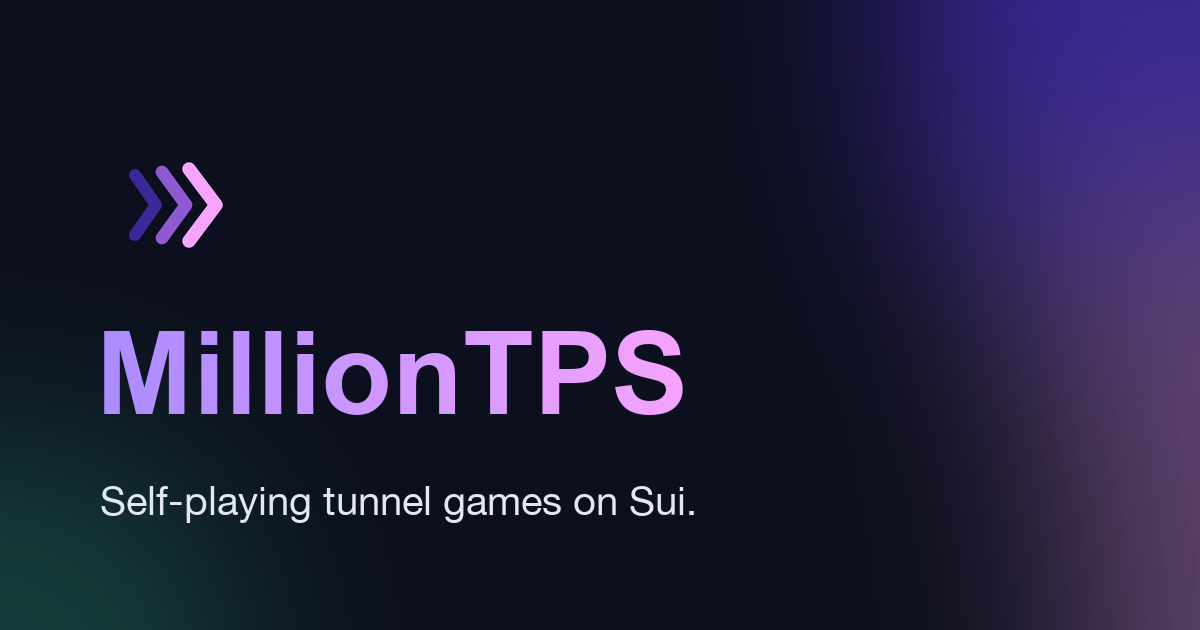
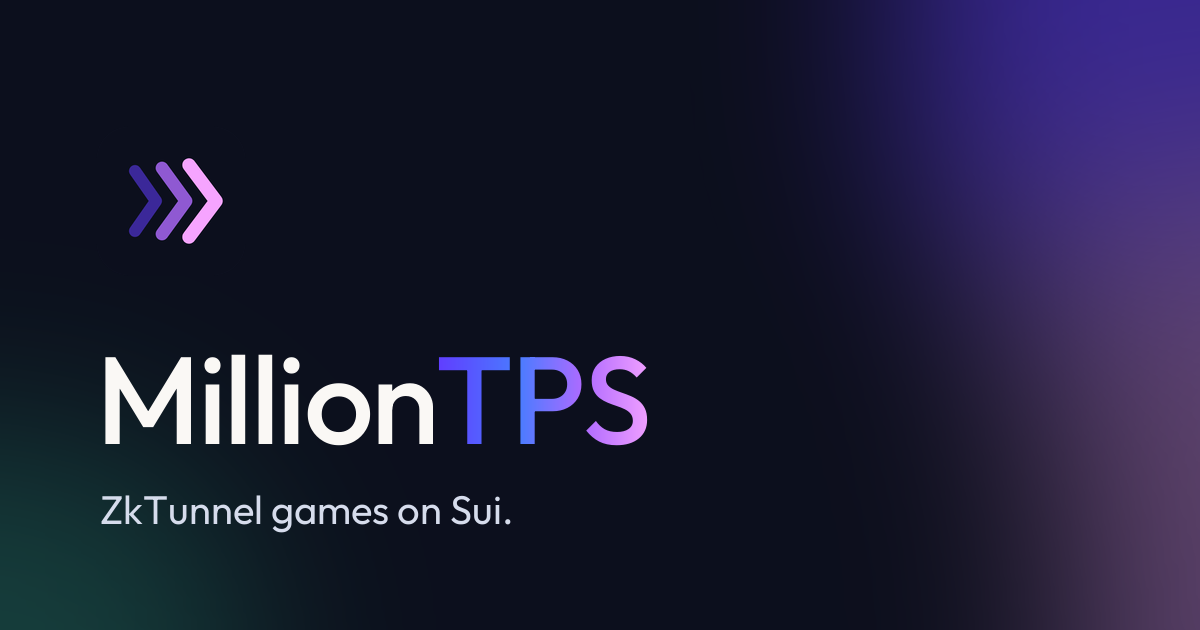
chore: rebrand tunnel terminology to ZkTunnel in SEO meta tags and OG card

Changed region(s): [[0.0617, 0.5127, 0.5858, 0.7238], [0.0617, 0.754, 0.5858, 0.8444], [0.0925, 0.2413, 0.185, 0.3921]]

diff --git a/frontend/index.html b/frontend/index.html
@@ -1,110 +1,82 @@
 <!doctype html>
 <html lang="en">
-  <head>
-    <meta charset="UTF-8" />
-    <meta name="viewport" content="width=device-width, initial-scale=1.0" />
-    <title>MillionTPS — self-playing tunnel games on Sui</title>
 
-    <!-- Primary SEO -->
-    <meta
-      name="description"
-      content="Connect a Sui wallet and play self-playing tunnel games off-chain — thousands of dual-signed, mutually-verified moves per channel, scaling to millions of effective TPS."
-    />
-    <meta
-      name="keywords"
-      content="Sui, state channels, tunnel, off-chain, effective TPS, zkLogin, Walrus, blackjack, quantum poker, Move, web3 games, blockchain gaming"
-    />
-    <meta name="application-name" content="MillionTPS" />
-    <meta name="theme-color" content="#0C0F1D" />
-    <meta name="color-scheme" content="dark light" />
-    <meta name="robots" content="index, follow" />
-    <meta name="apple-mobile-web-app-title" content="MillionTPS" />
-    <meta name="apple-mobile-web-app-capable" content="yes" />
-    <meta name="mobile-web-app-capable" content="yes" />
+<head>
+  <meta charset="UTF-8" />
+  <meta name="viewport" content="width=device-width, initial-scale=1.0" />
+  <title>MillionTPS — ZkTunnel games on Sui</title>
 
-    <!-- Open Graph (Facebook, LinkedIn, Discord, Slack, iMessage, …) -->
-    <meta property="og:type" content="website" />
-    <meta property="og:site_name" content="MillionTPS" />
-    <meta
-      property="og:title"
-      content="MillionTPS — self-playing tunnel games on Sui"
-    />
-    <meta
-      property="og:description"
-      content="A wallet-gated arena of self-playing tunnel games on Sui. Thousands of off-chain channels run at once, summing to millions of genuinely two-party effective TPS."
-    />
-    <meta property="og:image" content="/og-card.png" />
-    <meta property="og:image:type" content="image/png" />
-    <meta property="og:image:width" content="1200" />
-    <meta property="og:image:height" content="630" />
-    <meta
-      property="og:image:alt"
-      content="MillionTPS — self-playing tunnel games on Sui, anchored by off-chain state channels."
-    />
-    <meta property="og:locale" content="en_US" />
+  <!-- Primary SEO -->
+  <meta name="description"
+    content="Connect a Sui wallet and play ZkTunnel games, scaling to millions of effective TPS." />
+  <meta name="keywords"
+    content="Sui, state channels, tunnel, off-chain, effective TPS, zkLogin, Walrus, blackjack, quantum poker, Move, web3 games, blockchain gaming" />
+  <meta name="application-name" content="MillionTPS" />
+  <meta name="theme-color" content="#0C0F1D" />
+  <meta name="color-scheme" content="dark light" />
+  <meta name="robots" content="index, follow" />
+  <meta name="apple-mobile-web-app-title" content="MillionTPS" />
+  <meta name="apple-mobile-web-app-capable" content="yes" />
+  <meta name="mobile-web-app-capable" content="yes" />
 
-    <!-- Twitter / X -->
-    <meta name="twitter:card" content="summary_large_image" />
-    <meta
-      name="twitter:title"
-      content="MillionTPS — self-playing tunnel games on Sui"
-    />
-    <meta
-      name="twitter:description"
-      content="A wallet-gated arena of self-playing tunnel games on Sui, summing to millions of genuinely two-party effective TPS."
-    />
-    <meta name="twitter:image" content="/og-card.png" />
-    <meta
-      name="twitter:image:alt"
-      content="MillionTPS — self-playing tunnel games on Sui."
-    />
+  <!-- Open Graph (Facebook, LinkedIn, Discord, Slack, iMessage, …) -->
+  <meta property="og:type" content="website" />
+  <meta property="og:site_name" content="MillionTPS" />
+  <meta property="og:title" content="MillionTPS — ZkTunnel games on Sui" />
+  <meta property="og:description"
+    content="A wallet-gated arena of ZkTunnel games on Sui. Thousands of off-chain channels run at once, summing to millions of genuinely two-party effective TPS." />
+  <meta property="og:image" content="/og-card.png" />
+  <meta property="og:image:type" content="image/png" />
+  <meta property="og:image:width" content="1200" />
+  <meta property="og:image:height" content="630" />
+  <meta property="og:image:alt"
+    content="MillionTPS — ZkTunnel games on Sui, anchored by off-chain state channels." />
+  <meta property="og:locale" content="en_US" />
 
-    <link rel="icon" href="/favicon.ico" sizes="48x48" />
-    <link rel="icon" href="/favicons/favicon.svg" type="image/svg+xml" />
-    <link
-      rel="icon"
-      href="/favicons/favicon-32.png"
-      type="image/png"
-      sizes="32x32"
-    />
-    <link
-      rel="icon"
-      href="/favicons/favicon-16.png"
-      type="image/png"
-      sizes="16x16"
-    />
-    <link rel="apple-touch-icon" href="/favicons/apple-touch-icon.png" />
-    <link rel="manifest" href="/manifest.json" />
-    <script>
-      window.module = undefined;
-      // Set the theme class before first paint to avoid a flash. Mirrors the
-      // logic in src/theme/useTheme.tsx (override "light"|"dark", else system).
-      (function () {
-        try {
-          var t = localStorage.getItem("dopamint.theme");
-          var dark =
-            t === "dark" ||
-            ((!t || t === "system") &&
-              matchMedia("(prefers-color-scheme: dark)").matches);
-          document.documentElement.classList.toggle("dark", dark);
-        } catch (e) {}
-      })();
-    </script>
-    <!-- Material Symbols for Tic Tac Toe -->
-    <link
-      href="https://fonts.googleapis.com/css2?family=Material+Symbols+Outlined:wght,FILL@100..700,0..1&amp;display=swap"
-      rel="stylesheet"
-    />
-    <!-- Google Fonts for Tic Tac Toe -->
-    <link href="https://fonts.googleapis.com" rel="preconnect" />
-    <link crossorigin="" href="https://fonts.gstatic.com" rel="preconnect" />
-    <link
-      href="https://fonts.googleapis.com/css2?family=Bricolage+Grotesque:opsz,wght@12..96,700;12..96,800&amp;family=Gochi+Hand&amp;family=Space+Mono:ital,wght@0,400;0,700;1,400&amp;display=swap"
-      rel="stylesheet"
-    />
-  </head>
-  <body>
-    <div id="root"></div>
-    <script type="module" src="/src/main.tsx"></script>
-  </body>
+  <!-- Twitter / X -->
+  <meta name="twitter:card" content="summary_large_image" />
+  <meta name="twitter:title" content="MillionTPS — ZkTunnel games on Sui" />
+  <meta name="twitter:description"
+    content="A wallet-gated arena of ZkTunnel games on Sui, summing to millions of genuinely two-party effective TPS." />
+  <meta name="twitter:image" content="/og-card.png" />
+  <meta name="twitter:image:alt" content="MillionTPS — ZkTunnel games on Sui." />
+
+  <link rel="icon" href="/favicon.ico" sizes="48x48" />
+  <link rel="icon" href="/favicons/favicon.svg" type="image/svg+xml" />
+  <link rel="icon" href="/favicons/favicon-32.png" type="image/png" sizes="32x32" />
+  <link rel="icon" href="/favicons/favicon-16.png" type="image/png" sizes="16x16" />
+  <link rel="apple-touch-icon" href="/favicons/apple-touch-icon.png" />
+  <link rel="manifest" href="/manifest.json" />
+  <script>
+    window.module = undefined;
+    // Set the theme class before first paint to avoid a flash. Mirrors the
+    // logic in src/theme/useTheme.tsx (override "light"|"dark", else system).
+    (function () {
+      try {
+        var t = localStorage.getItem("dopamint.theme");
+        var dark =
+          t === "dark" ||
+          ((!t || t === "system") &&
+            matchMedia("(prefers-color-scheme: dark)").matches);
+        document.documentElement.classList.toggle("dark", dark);
+      } catch (e) { }
+    })();
+  </script>
+  <!-- Material Symbols for Tic Tac Toe -->
+  <link
+    href="https://fonts.googleapis.com/css2?family=Material+Symbols+Outlined:wght,FILL@100..700,0..1&amp;display=swap"
+    rel="stylesheet" />
+  <!-- Google Fonts for Tic Tac Toe -->
+  <link href="https://fonts.googleapis.com" rel="preconnect" />
+  <link crossorigin="" href="https://fonts.gstatic.com" rel="preconnect" />
+  <link
+    href="https://fonts.googleapis.com/css2?family=Bricolage+Grotesque:opsz,wght@12..96,700;12..96,800&amp;family=Gochi+Hand&amp;family=Space+Mono:ital,wght@0,400;0,700;1,400&amp;display=swap"
+    rel="stylesheet" />
+</head>
+
+<body>
+  <div id="root"></div>
+  <script type="module" src="/src/main.tsx"></script>
+</body>
+
 </html>